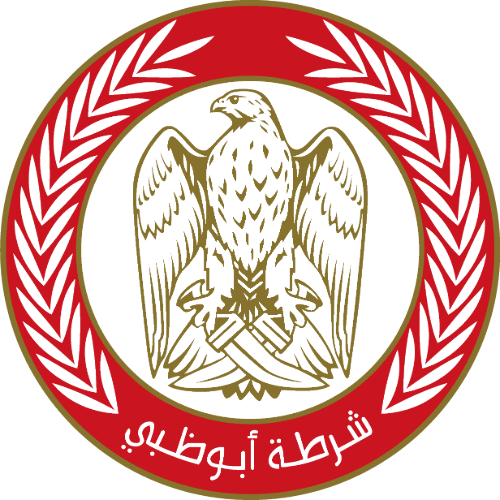
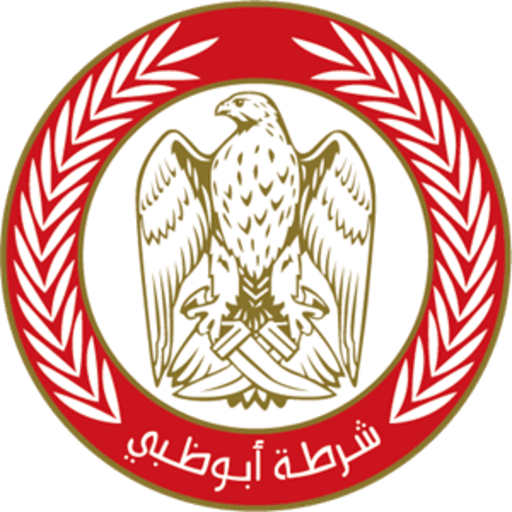
reformatted images and added food delivery services

diff --git a/app/case/tips.tsx b/app/case/tips.tsx
@@ -1,32 +1,57 @@
-import React from "react";
-import { Card, CardHeader, CardFooter, CardTitle, CardDescription, CardContent } from "@/components/ui/card";
-import { useEffect, useRef } from "react";
+"use client"
+
+import { useEffect, useRef } from "react"
+import { Card, CardHeader, CardContent } from "@/components/ui/card"
 import { motion, useAnimation, useInView } from "framer-motion"
 
 interface cardData {
-  title: string,
-  content: string,
-  externalLink: string,
-  location: string,
+  title: string
+  content: string
+  externalLink: string
+  location: string
 }
 
 interface emergencyServiceData {
-  title: string,
+  title: string
   contact: string
 }
+
+interface foodDeliveryService {
+  title: string
+  externalLink: string
+  image: string
+}
+
+const foodDeliveryServices: foodDeliveryService[] = [
+  {
+    title: "Talabat",
+    externalLink: "https://talabat.com/uae",
+    image: "/images/talabat.png",
+  },
+  {
+    title: "Noon",
+    externalLink: "https://noon.com/uae-en",
+    image: "/images/noon.svg",
+  },
+  {
+    title: "Deliveroo",
+    externalLink: "https://deliveroo.ae",
+    image: "/images/deliveroo.png",
+  },
+]
 
 const emergencyServices: emergencyServiceData[] = [
   {
     title: "Police 👮",
-    contact: "999"
+    contact: "999",
   },
   {
     title: "Ambulance 🚑",
-    contact: "998"
+    contact: "998",
   },
   {
     title: "Fire 🚒",
-    contact: "997"
+    contact: "997",
   },
 ]
 
@@ -35,26 +60,28 @@ const cardsData: cardData[] = [
     title: "ADDC",
     content: "Where you can pay your water and electricity bills!",
     externalLink: "https://www.addc.ae/en-US/home/pages/AboutUs.aspx",
-    location: "/images/addc.png"
+    location: "/images/addc.png",
   },
   {
     title: "DARB",
     content: "Abu Dhabi's smart mobility platform for real-time public transport, traffic, and parking information.",
     externalLink: "https://darb.qmobility.ae/RucWeb/login",
-    location: "/images/darb.png"
+    location: "/images/darb.png",
   },
   {
     title: "Abu Dhabi Police",
-    content: "The law enforcement agency responsible for maintaining security, traffic regulation, and public safety in Abu Dhabi.",
+    content:
+      "The law enforcement agency responsible for maintaining security, traffic regulation, and public safety in Abu Dhabi.",
     externalLink: "https://es.adpolice.gov.ae/trafficservices/",
-    location: "/images/adpolice.png"
+    location: "/images/adpolice.png",
   },
   {
     title: "The Entertainer",
-    content: "A lifestyle app offering discounts and buy-one-get-one-free deals on dining, entertainment, and leisure activities",
+    content:
+      "A lifestyle app offering discounts and buy-one-get-one-free deals on dining, entertainment, and leisure activities",
     externalLink: "https://www.theentertainerme.com/en-ae/abu-dhabi-al-ain",
-    location: "/images/entertainer.png"
-  }
+    location: "/images/entertainer.png",
+  },
 ]
 
 const MotionCard = motion(Card)
@@ -63,8 +90,11 @@ export default function CaseTips() {
   const controls = useAnimation()
   const mainRef = useRef(null)
   const emergencyRef = useRef(null)
+  const deliveryRef = useRef(null)
   const isMainInView = useInView(mainRef, { once: true })
   const isEmergencyInView = useInView(emergencyRef, { once: true })
+  const isDeliveryInView = useInView(deliveryRef, { once: true })
+  const deliveryControls = useAnimation()
   const emergencyControls = useAnimation()
 
   useEffect(() => {
@@ -73,9 +103,12 @@ export default function CaseTips() {
       // Start emergency services animation after a delay
       setTimeout(() => {
         emergencyControls.start("visible")
+        setTimeout(() => {
+          deliveryControls.start("visible")
+        }, 400)
       }, 1000)
     }
-  }, [controls, isMainInView])
+  }, [controls, isMainInView, deliveryControls]) // Added deliveryControls to dependencies
 
   return (
     <div className="flex-1 p-5 overflow-auto h-screen">
@@ -110,14 +143,12 @@ export default function CaseTips() {
               <a href={card.externalLink}>
                 <motion.img
                   src={card.location}
-                  className="w-full h-36 object-cover rounded-md mb-2"
+                  className="w-full h-36  object-fit rounded-md mb-2"
                   whileHover={{ scale: 1.1 }}
                   transition={{ duration: 0.3 }}
                 />
               </a>
-              <CardTitle className="text-lg text-center mb-0">
-                <p>{card.title}</p>
-              </CardTitle>
+              <p className="text-lg text-center mb-0">{card.title}</p> {/* Removed CardTitle and used <p> instead */}
             </CardHeader>
             <CardContent className="text-gray-400 text-sm line-clamp-3 text-center">
               <p>{card.content}</p>
@@ -149,22 +180,67 @@ export default function CaseTips() {
                 }),
               }}
               custom={index}
-              whileHover={{ 
+              whileHover={{
                 scale: 1.05,
-                transition: { duration: 0.2 }
+                transition: { duration: 0.2 },
               }}
               whileTap={{ scale: 0.95 }}
             >
-              <h3 className="text-lg text-center mb-0 text-white font-semibold whitespace-nowrap mt-2">
-                {card.title}
-              </h3>
-              <p className="text-base text-center text-gray-400 font-bold mb-2">
-                {card.contact}
-              </p>
+              <h3 className="text-lg text-center mb-0 text-white font-semibold whitespace-nowrap mt-2">{card.title}</h3>
+              <p className="text-base text-center text-gray-400 font-bold mb-2">{card.contact}</p>
+            </MotionCard>
+          ))}
+        </div>
+      </div>
+
+      <div className="mt-10">
+        <h1 className="text-white text-2xl mb-4">
+          <b>Missing the taste of home?</b>
+        </h1>
+        <p className="text-gray-400 text-sm mb-6">Don't worry, we got you covered.</p>
+        <div className="grid grid-cols-3 gap-4" ref={deliveryRef}>
+          {foodDeliveryServices.map((service, index) => (
+            <MotionCard
+              key={index}
+              className="w-full min-w-[120px] bg-gray-800 border-gray-700 min-h-[120px] select-none cursor-pointer hover:bg-gray-700/50 transition-colors"
+              initial="hidden"
+              animate={deliveryControls}
+              variants={{
+                hidden: { opacity: 0, y: 30 },
+                visible: (i) => ({
+                  opacity: 1,
+                  y: 0,
+                  transition: {
+                    delay: i * 0.15,
+                    duration: 0.4,
+                    ease: "easeOut",
+                  },
+                }),
+              }}
+              custom={index}
+              whileHover={{
+                scale: 1.05,
+                transition: { duration: 0.2 },
+              }}
+              whileTap={{ scale: 0.95 }}
+            >
+              <a href={service.externalLink} className="block h-full">
+                <CardHeader className="text-center">
+                  <h3 className="text-lg text-white font-semibold mb-2">{service.title}</h3>
+                </CardHeader>
+                <CardContent className="flex justify-center items-center">
+                  <img
+                    className="max-w-[48px] max-h-[48px]"
+                    src={service.image || "/placeholder.svg"}
+                    alt={`${service.title} logo`}
+                  />
+                </CardContent>
+              </a>
             </MotionCard>
           ))}
         </div>
       </div>
     </div>
-  );
+  )
 }
+
